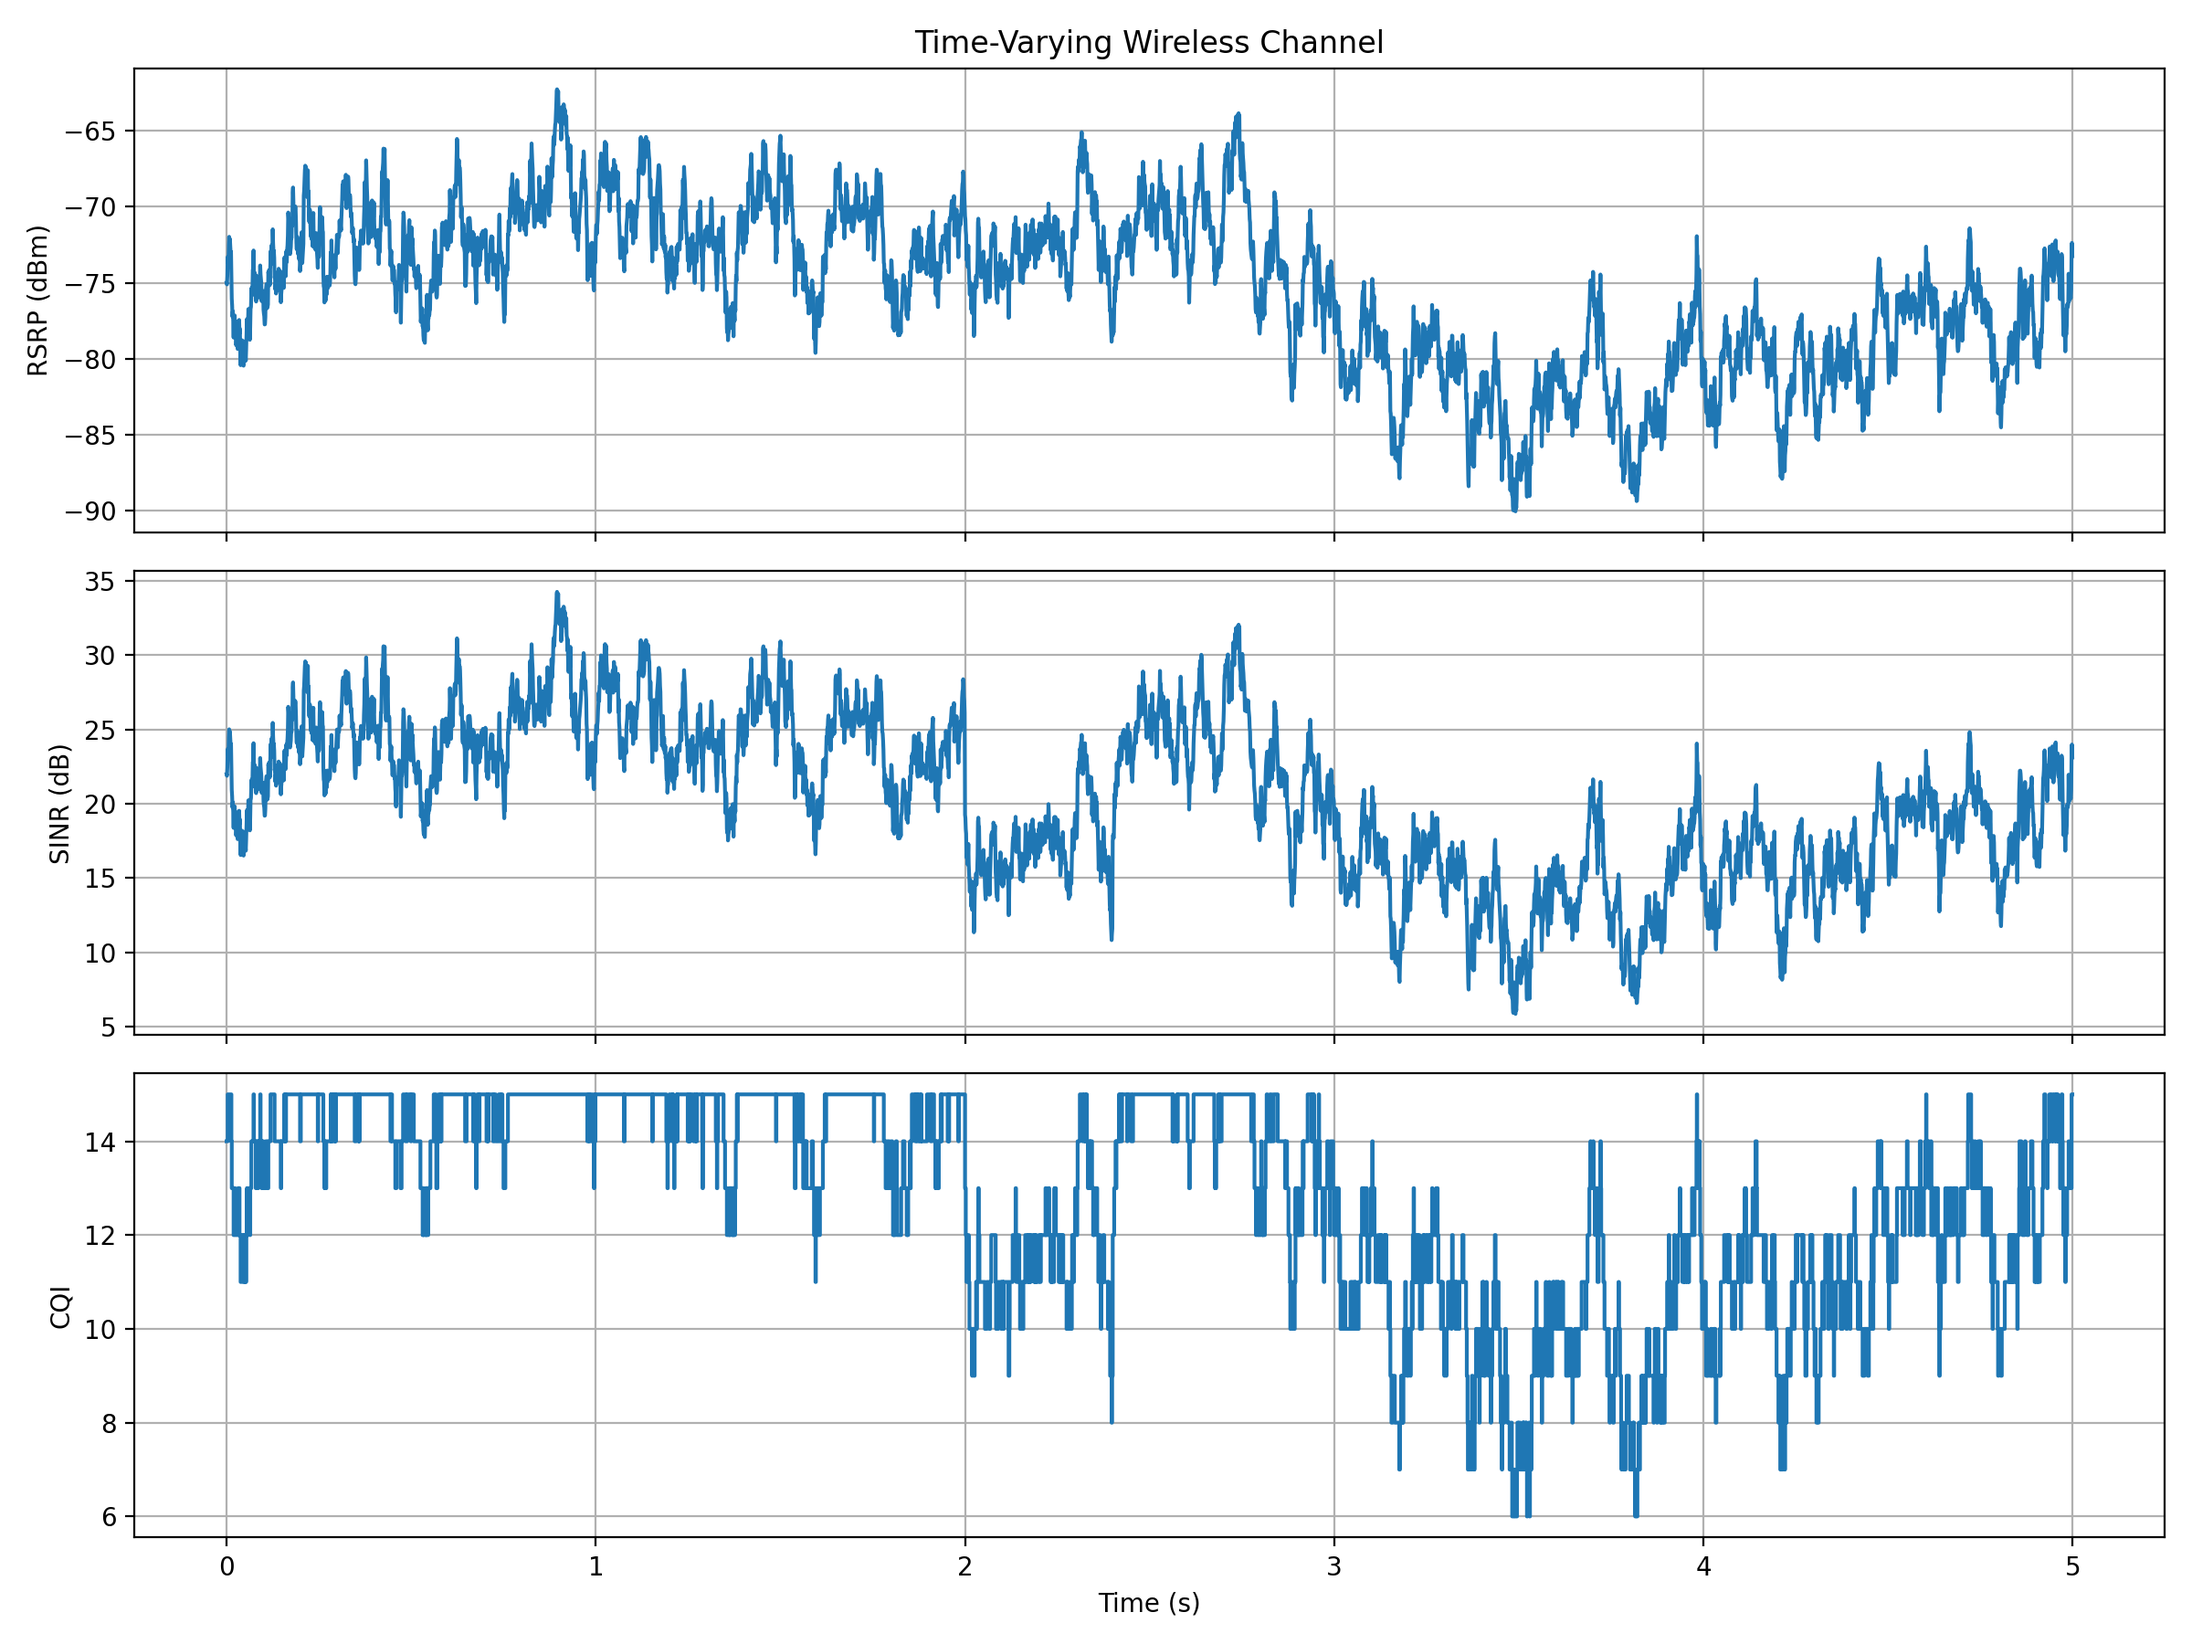
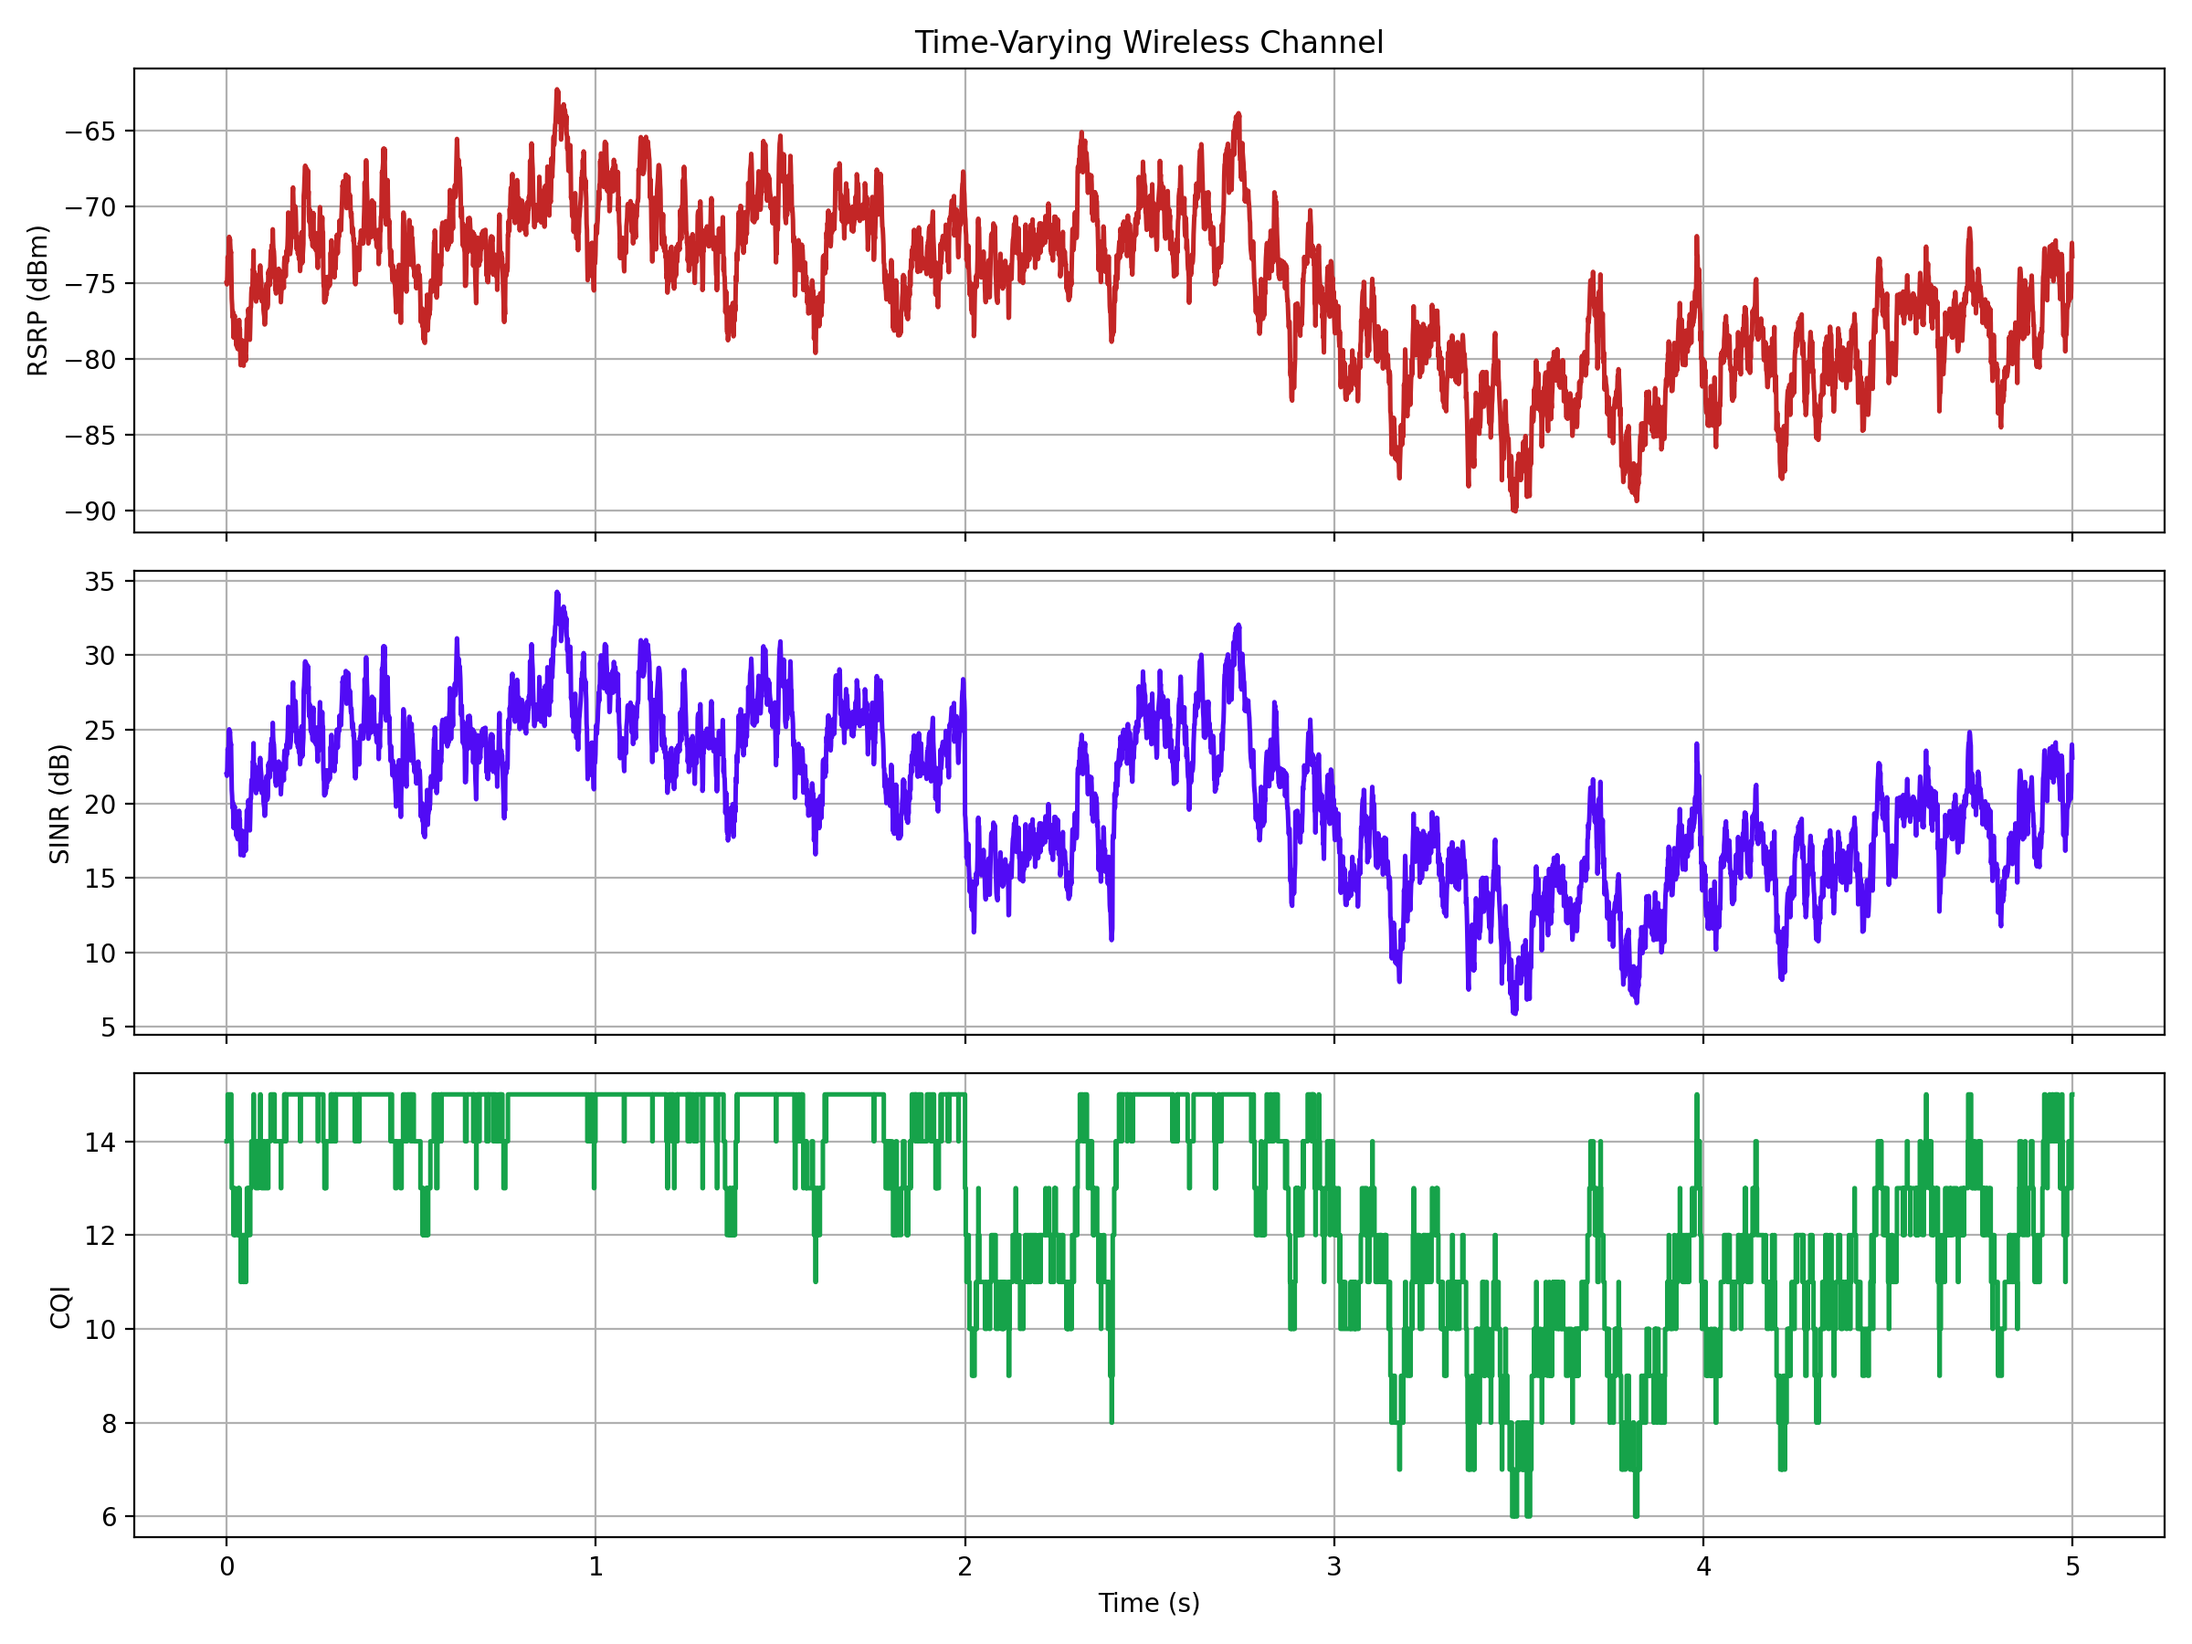
color changes in the final one

diff --git a/wave.py b/wave.py
@@ -33,6 +33,7 @@ time = np.arange(NUM_SAMPLES) * DT
 # ============================================================
 
 # Represents gradual changes caused by movement/environment.
+
 slow_variation = (
     3.0 * np.sin(2 * np.pi * 0.15 * time)
     + 1.5 * np.sin(2 * np.pi * 0.45 * time)
@@ -82,6 +83,7 @@ deterioration[start:end] = np.linspace(
 )
 
 # Recover afterwards
+
 deterioration[end:] = -10 * np.exp(
     -(np.arange(NUM_SAMPLES - end) / 250)
 )
@@ -111,6 +113,7 @@ interference = (
 )
 
 # Add an interference burst
+
 burst_start = int(NUM_SAMPLES * 0.40)
 burst_end = int(NUM_SAMPLES * 0.48)
 
@@ -159,10 +162,10 @@ sinr_db = linear_to_db(sinr_linear)
 # once the channel/link model is finalized.
 
 cqi_thresholds = np.array([
-    -5,  -3,  -1,   1,
-     3,   5,   7,   9,
-    11,  13,  15,  17,
-    19,  21,  23
+    -5, -3, -1, 1,
+     3,  5,  7, 9,
+    11, 13, 15, 17,
+    19, 21, 23
 ])
 
 cqi = np.digitize(sinr_db, cqi_thresholds)
@@ -194,30 +197,75 @@ print(df.head())
 # 10. VISUALIZATION
 # ============================================================
 
-fig, axes = plt.subplots(3, 1, figsize=(12, 9), sharex=True)
+fig, axes = plt.subplots(
+    3,
+    1,
+    figsize=(12, 9),
+    sharex=True
+)
 
+
+# ------------------------------------------------------------
 # RSRP
-axes[0].plot(time, rsrp)
+# ------------------------------------------------------------
+
+axes[0].plot(
+    time,
+    rsrp,
+    color="#C32626",
+    linewidth=1.8
+)
+
 axes[0].set_ylabel("RSRP (dBm)")
 axes[0].set_title("Time-Varying Wireless Channel")
 axes[0].grid(True)
 
+
+# ------------------------------------------------------------
 # SINR
-axes[1].plot(time, sinr_db)
+# ------------------------------------------------------------
+
+axes[1].plot(
+    time,
+    sinr_db,
+    color="#510BF5",
+    linewidth=1.8
+)
+
 axes[1].set_ylabel("SINR (dB)")
 axes[1].grid(True)
 
+
+# ------------------------------------------------------------
 # CQI
-axes[2].step(time, cqi, where="post")
+# ------------------------------------------------------------
+
+axes[2].step(
+    time,
+    cqi,
+    where="post",
+    color="#16A34A",
+    linewidth=1.8
+)
+
 axes[2].set_ylabel("CQI")
 axes[2].set_xlabel("Time (s)")
 axes[2].grid(True)
+
+
+# ------------------------------------------------------------
+# FINAL LAYOUT
+# ------------------------------------------------------------
 
 plt.tight_layout()
 
 plot_path = RESULTS_DIR / "channel_quality_vs_time.png"
 
-plt.savefig(plot_path, dpi=200)
+plt.savefig(
+    plot_path,
+    dpi=200
+)
+
 plt.show()
 
 print(f"\nPlot saved to: {plot_path}")
